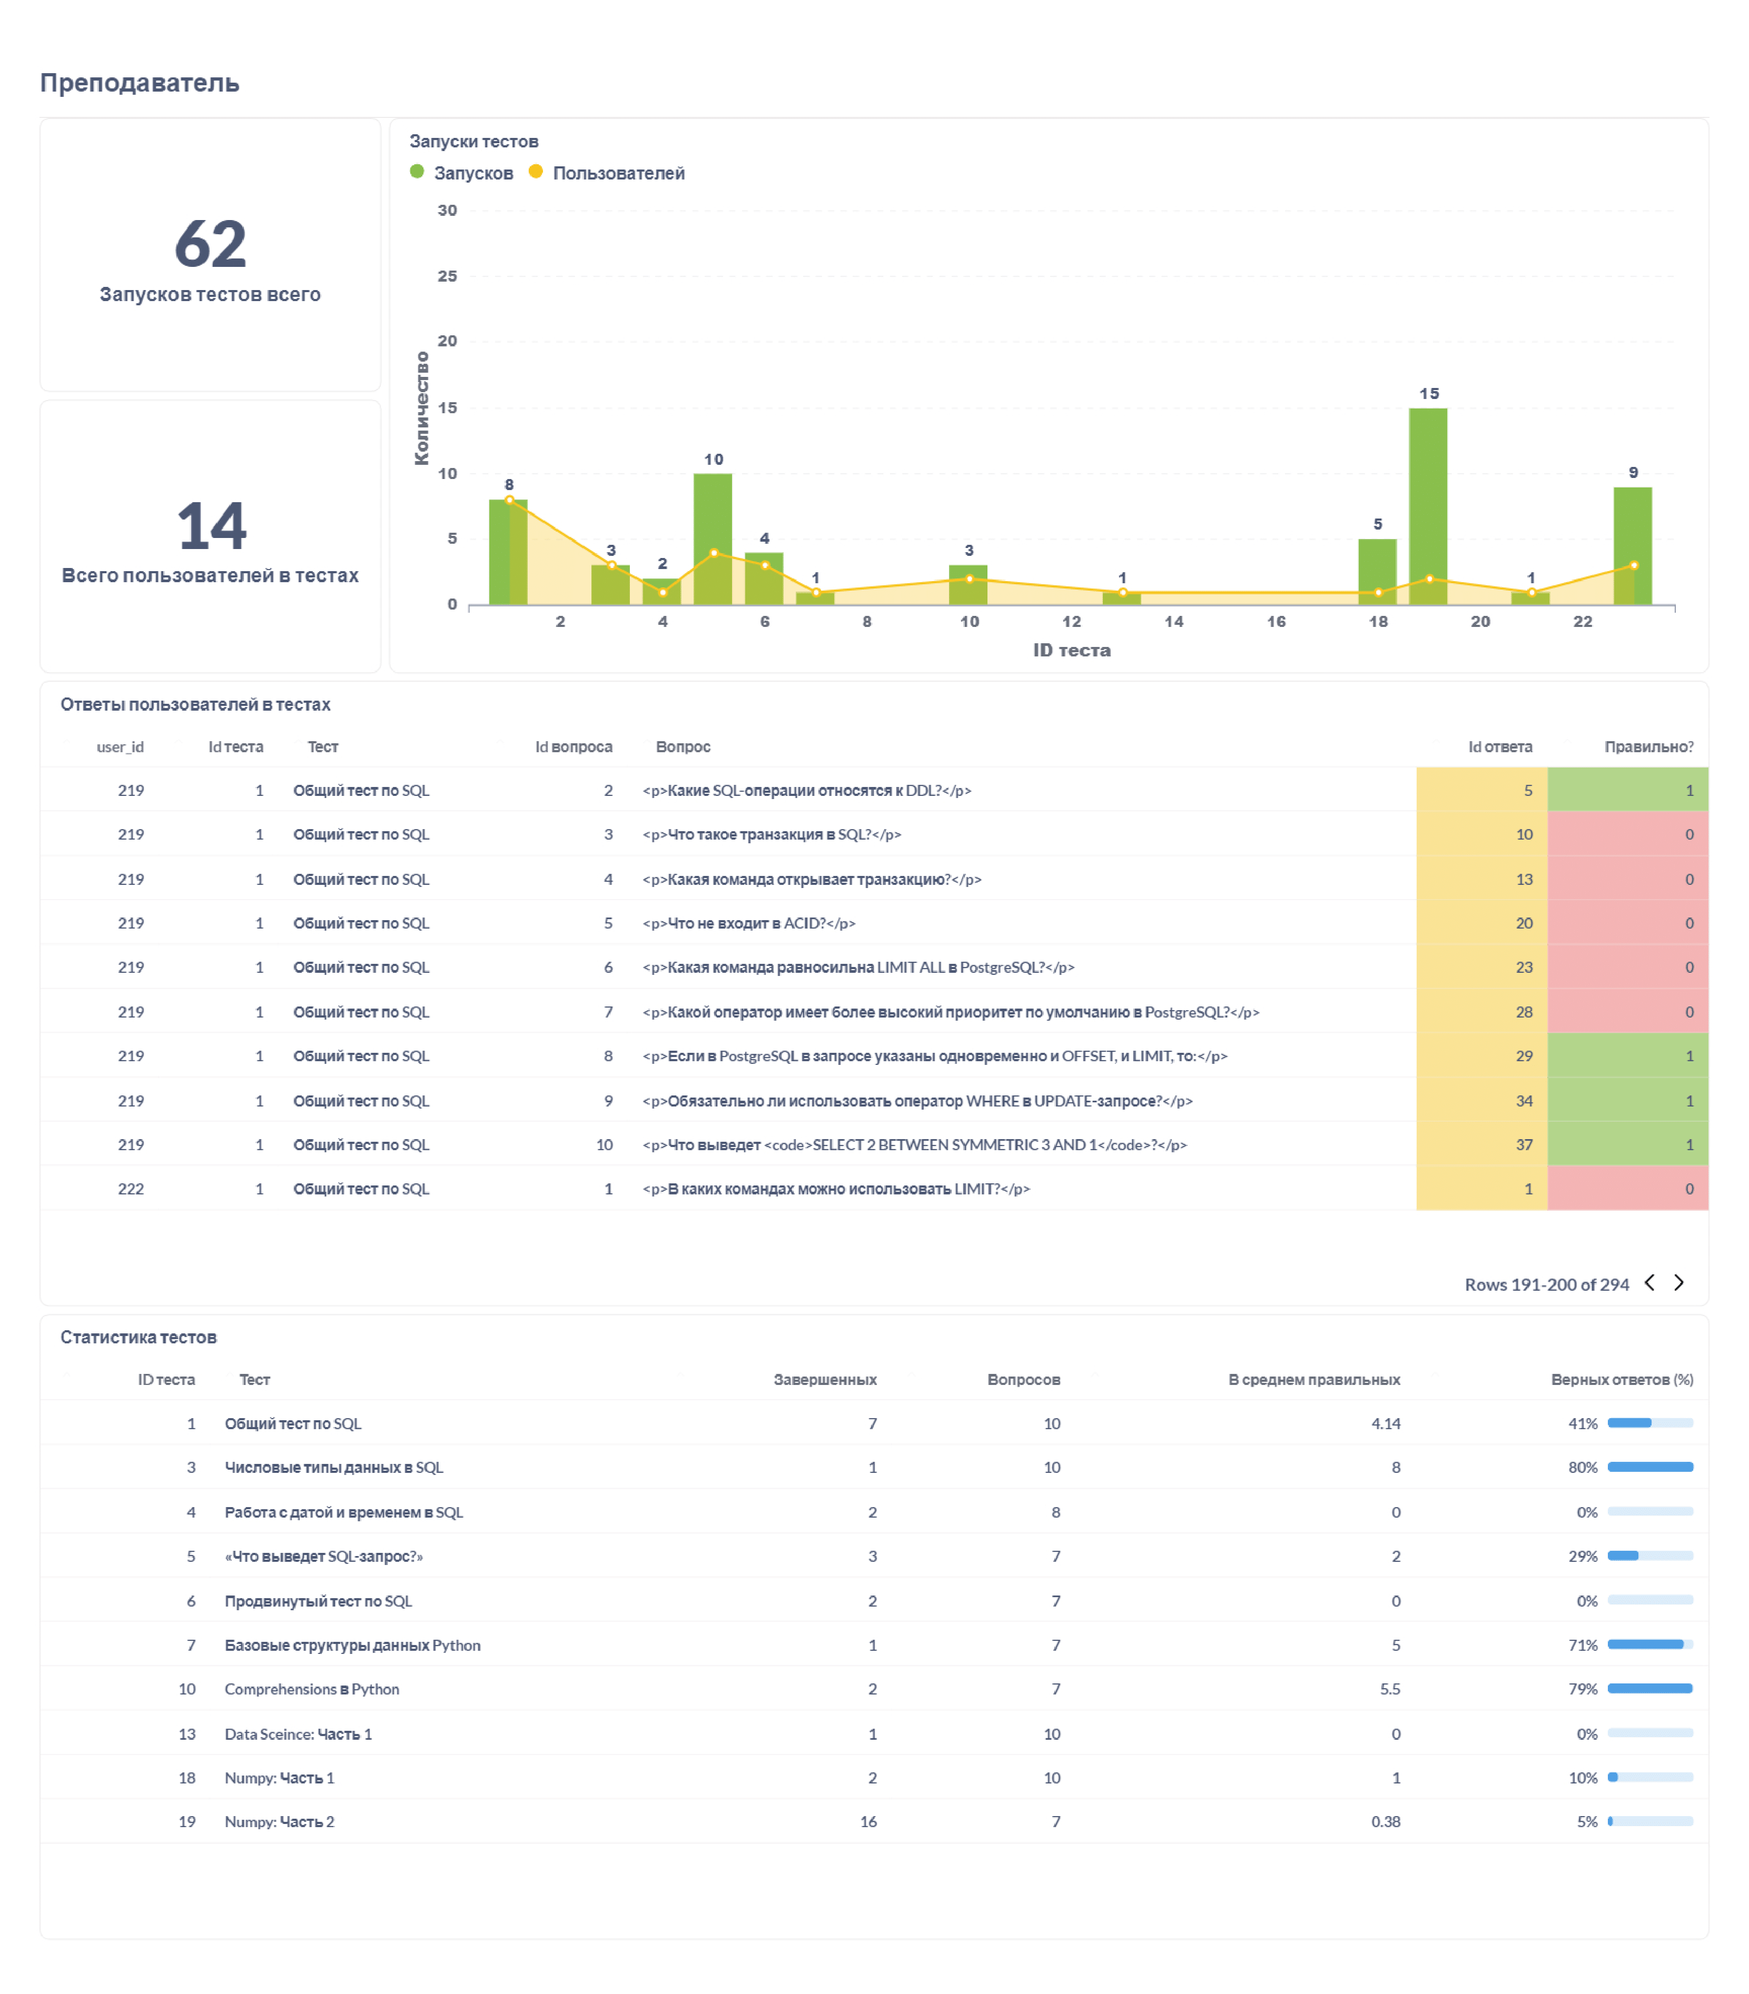
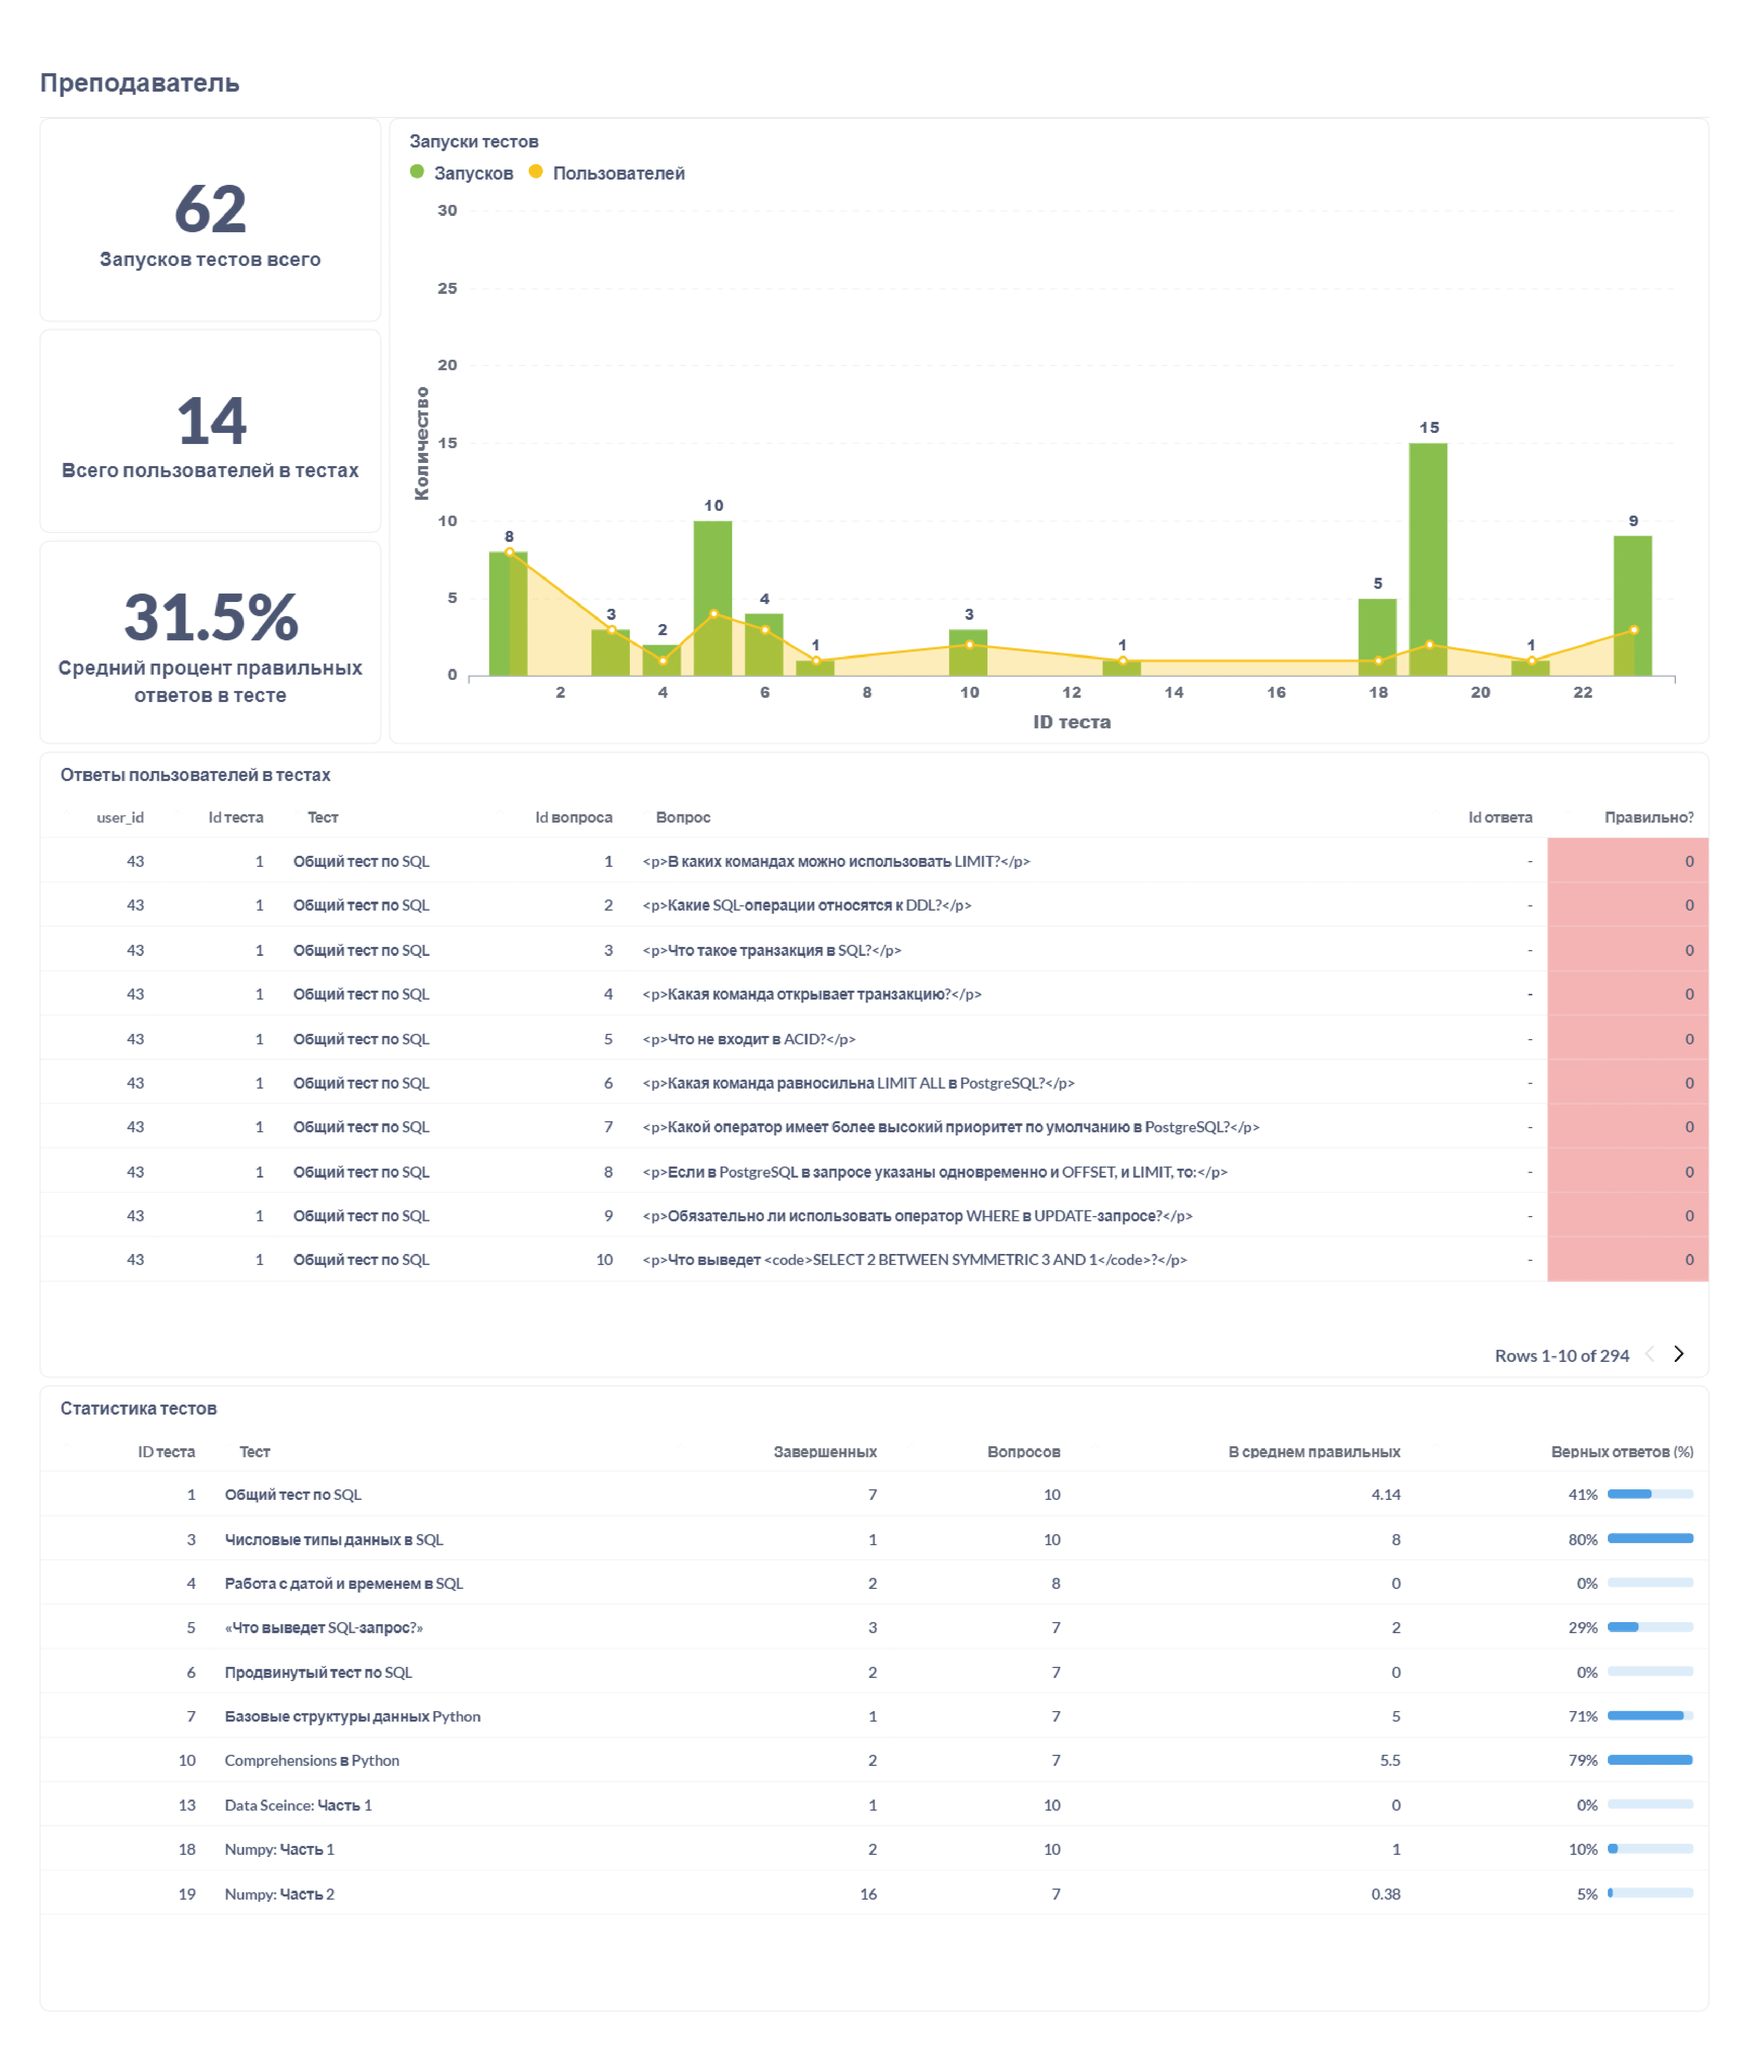
update teacher

diff --git a/IT_Resume_analysis/Dashboards/Teacher/README.md b/IT_Resume_analysis/Dashboards/Teacher/README.md
@@ -8,6 +8,6 @@
 Дополнительно приведена таблица сводная таблица, на которой показано, какие задачи студент решил (отмечены 1 зеленым цветом), пытался решить (отмечены 0 желтым) или даже не приступал (прочерк красным).  
 ![таблица](Преподаватель-2.png)  
 
-
+Третий лист - информация по тестам. Сколько всего было запущено тестов, сколько пользователей это сделало, процент верных ответов в тесте. Столбчатая диаграмма наглядно показывает, какой тест сколько запускали. Ниже дана таблица с ответами пользователей в каждом тесте, еще ниже - статистика по тестам.  
 ![таблица](Преподаватель-3.png)  
 
